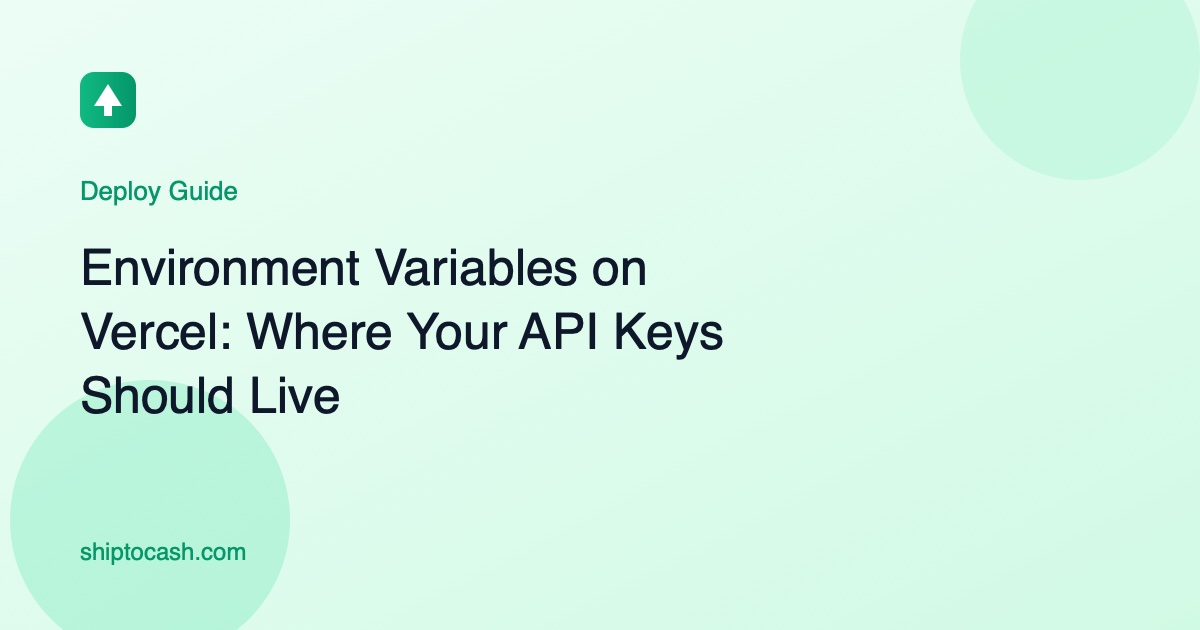
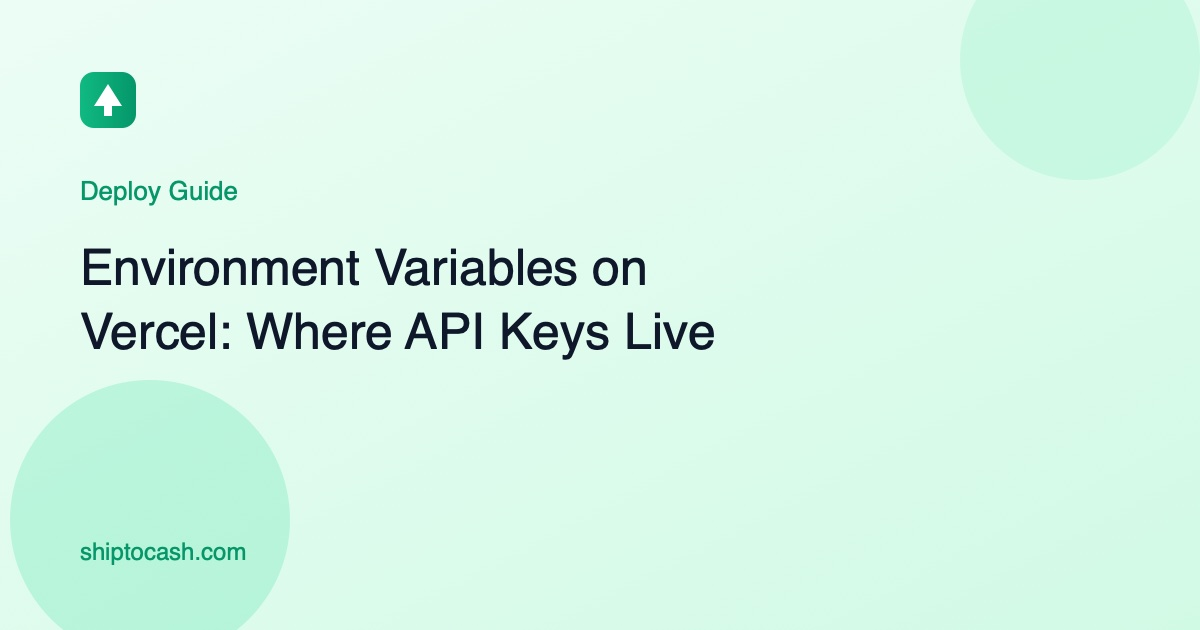
seo: add BlogPosting/BreadcrumbList schema, fix title truncation
- Add @graph JSON-LD (BlogPosting + BreadcrumbList) to article template; keep FAQPage
- Append ' | ShipToCash' only when rendered title stays <= 60 chars
- Shorten 2 non-ranking titles + regenerate their OG images

Changed region(s): [[0.3392, 0.4825, 0.6167, 0.573], [0.0617, 0.573, 0.2775, 0.6635]]

diff --git a/src/content/blog/deploy-first-app-vercel.md b/src/content/blog/deploy-first-app-vercel.md
@@ -1,5 +1,5 @@
 ---
-title: "How to Deploy Your First App to Vercel (No DevOps Experience Needed)"
+title: "Deploy Your First App to Vercel (No DevOps Experience)"
 description: "You built an app with AI. Here's how to get it off your laptop and onto the internet with Vercel — step by step, no prior deployment experience required."
 pubDate: 2026-08-04
 updatedDate: 2026-08-21

diff --git a/src/content/blog/vercel-environment-variables.md b/src/content/blog/vercel-environment-variables.md
@@ -1,5 +1,5 @@
 ---
-title: "Environment Variables on Vercel: Where Your API Keys Should Live"
+title: "Environment Variables on Vercel: Where API Keys Live"
 description: "Where do your API keys actually go on Vercel? How to add environment variables, why they stay undefined until you redeploy, and the prefix that leaks keys."
 pubDate: 2026-08-31
 category: deploy
